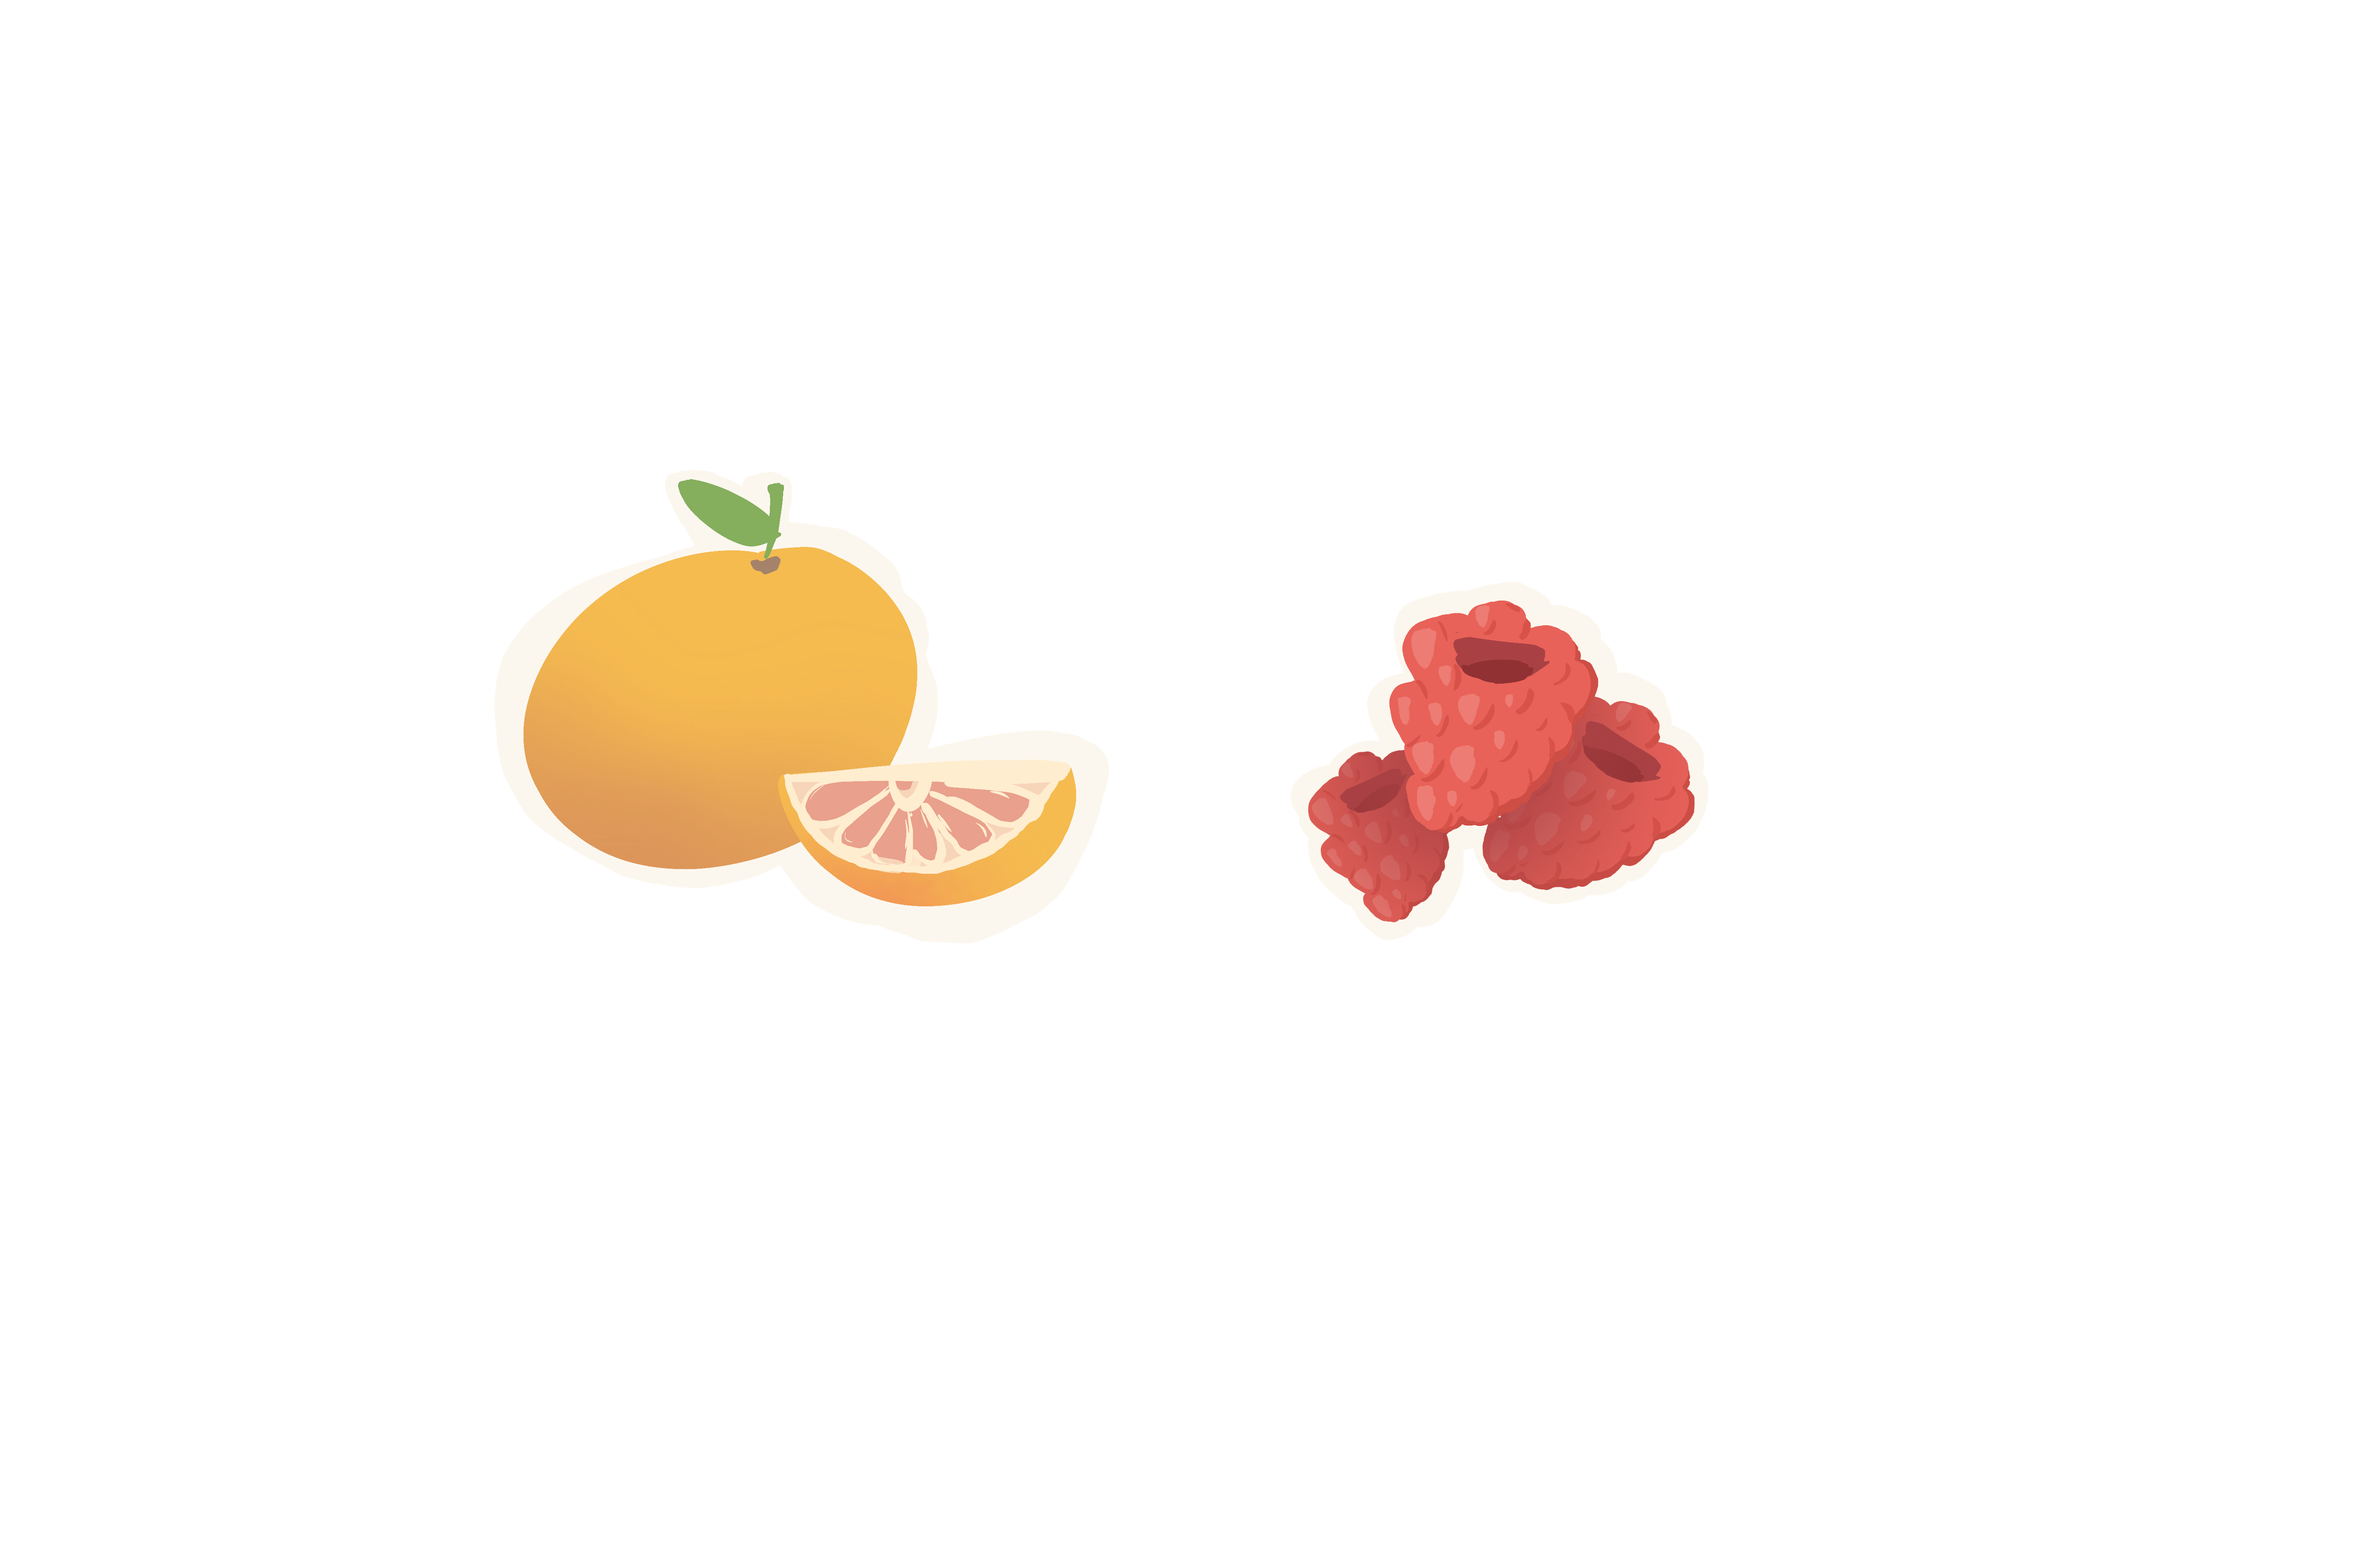
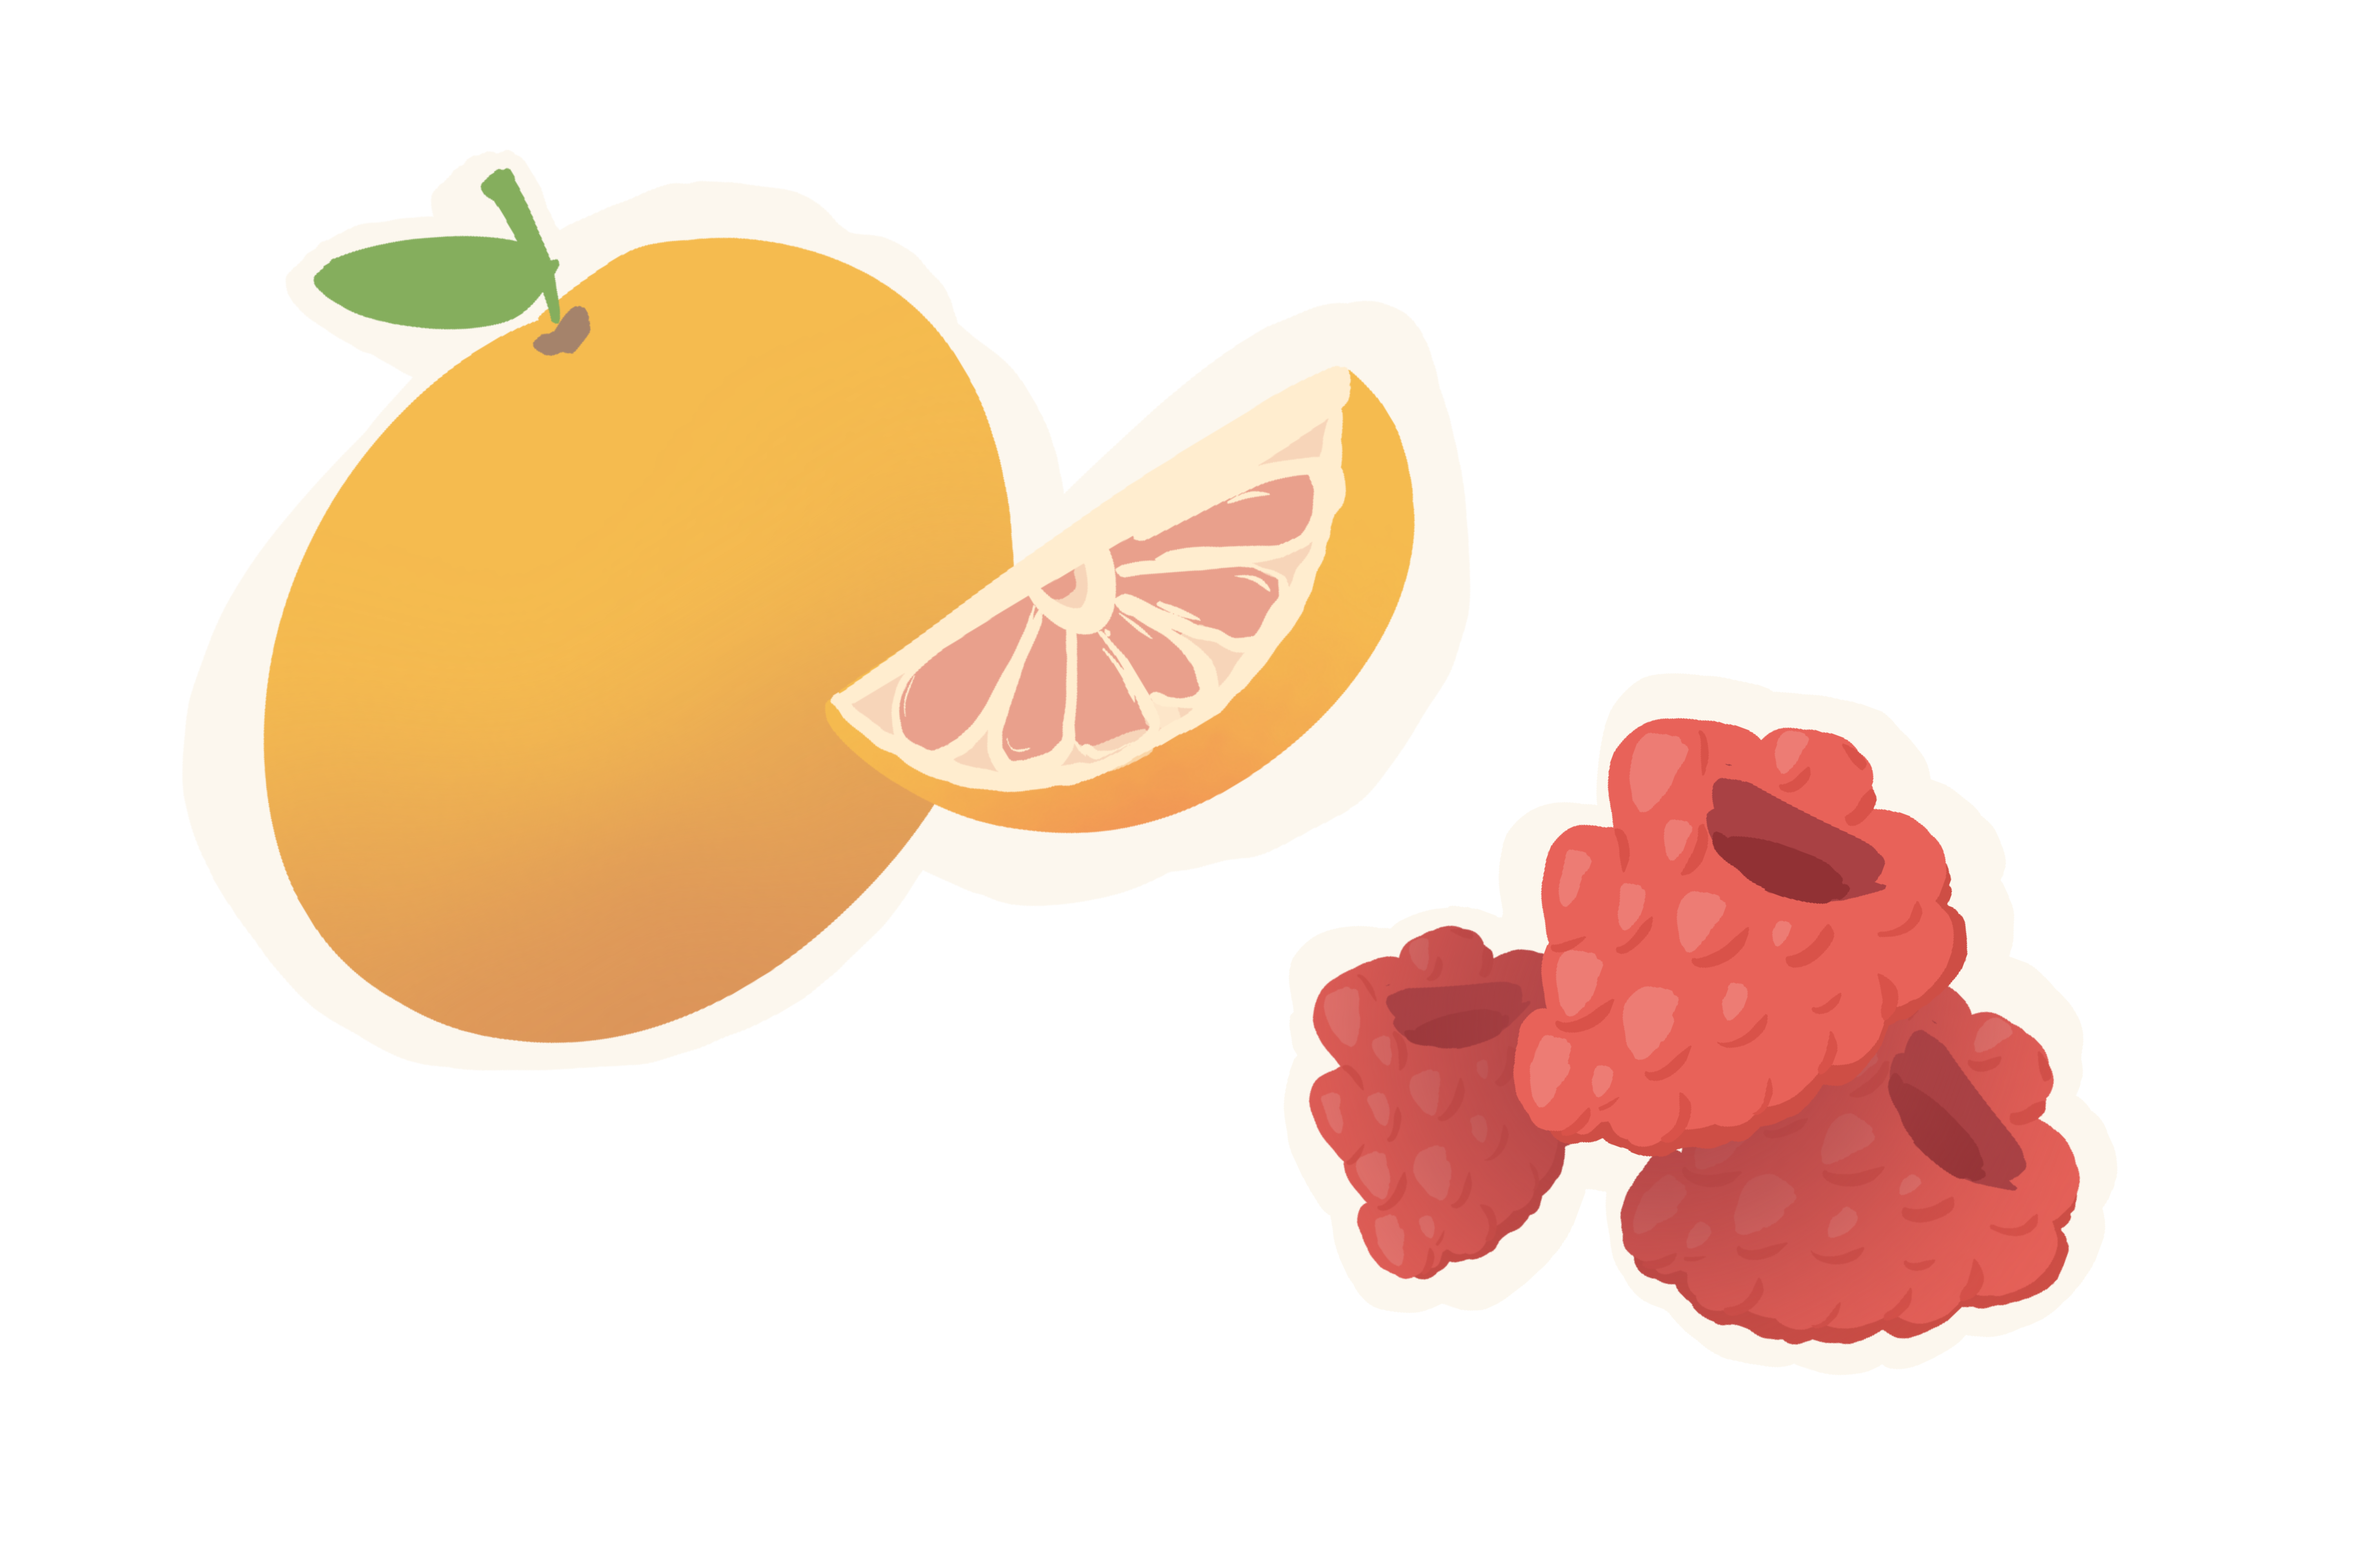
ps3.2
ajout d'images

Changed region(s): [[0.0935, 0.0938, 0.9038, 0.875]]

diff --git a/assets/js/script.js b/assets/js/script.js
@@ -3,7 +3,7 @@ const chapters = {
     titre: "Prologue",
     description:
       "C'est l'été, Jimmy est pauvre et a besoin d'argent. Sa mère lui raconte qu'elle opérait un kiosque de limonade lorsqu'elle était jeune. Jimmy décide de s'y lancer. Jimmy fait du profit dès le premier jour! Son voisin, Rodrigue, est jaloux, il a entendu la conversation que Jimmy a eue avec sa mère et il a décidé de rivaliser avec Jimmy. Jimmy doit avoir le kiosque le plus populaire du coin.",
-    image: "",
+    image: "./assets/images/limonade.png",
     boutons: [{ titre: "Continuer", destination: "jour1" }],
   },
   jour1: {
@@ -30,7 +30,7 @@ const chapters = {
     titre: "J'ai trop d'argent",
     description:
       "Jimmy possède un peu plus d'argent. Il décide de prendre un supplément.",
-    image: "./assets/images/fruits-3.png",
+    image: "./assets/images/supplements.png",
     boutons: [
       { titre: "Sucre", destination: "interlude2" },
       { titre: "Menthe", destination: "interlude2" },
@@ -41,7 +41,7 @@ const chapters = {
     titre: "Jour 3",
     description:
       "Jimmy va au supermarché se procurer des aliments pour sa limonade. Il est inspiré par ce qu'on a raconté aux nouvelles hier. Que devrait-il prendre?",
-    image: "",
+    image: "./assets/images/fruits-3.png",
     boutons: [
       { titre: "Poires cactus", destination: "erreur4" },
       { titre: "Kiwis", destination: "jour3partie2" },
@@ -51,7 +51,7 @@ const chapters = {
   jour3partie2: {
     titre: "Il fait chaud!!",
     description: "Il fait 40˚C!! Les gens ont chaud! Avez-vous des glaçons?",
-    image: "",
+    image: "./assets/images/glacons.png",
     boutons: [
       { titre: "Oui", destination: "fin" },
       { titre: "Non", destination: "erreur5" },
@@ -61,7 +61,7 @@ const chapters = {
     titre: "Bravo!",
     description:
       "Bravo! Le kiosque de limonade à Jimmy a été le plus populaire pendant 3 jours consécutifs. Furieux, Rodrigue rentre chez lui.",
-    image: "",
+    image: "./assets/images/argent.png",
     boutons: [
       { titre: "Sortie", destination: "" },
       { titre: "Rejouer", destination: "debut" },
@@ -71,46 +71,46 @@ const chapters = {
     titre: "Interlude 1",
     description:
       "Jimmy remporte la journée avec le plus de limonade vendue. Il finit sa journée devant la télé. Aux nouvelles, on raconte qu'une évasion de singe a eu lieu.",
-    image: "",
+    image: "./assets/images/tv-singe.png",
     boutons: [{ titre: "Continuer", destination: "jour2" }],
   },
   interlude2: {
     titre: "Interlude 2",
     description:
-      "Jimmy remporte la journée avec le plus de limonade vendue. Il finit sa journée devant la télé. Aux nouvelles, on annonce une canicule et on raconte que le président s'est fait enlever par des extraterrestres.",
-    image: "",
+      "Jimmy remporte la journée avec le plus de limonade vendue. Il finit sa journée devant la télé. Aux nouvelles, on annonce une canicule et on raconte que le président s'est fait enlever par des extraterrestres pendant qu'il mangeait des peaux de fruit poilu.",
+    image: "./assets/images/tv-alien.png",
     boutons: [{ titre: "Continuer", destination: "jour3" }],
   },
   erreur1: {
     titre: "Echec",
     description: "La limonade de Rodrigue est plus populaire, Jimmy abandonne.",
-    image: "",
+    image: "./assets/images/rodrigue.png",
     boutons: [{ titre: "Réssayer", destination: "debut" }],
   },
   erreur2: {
     titre: "Echec",
     description: "La limonade de Rodrigue est plus populaire, Jimmy abandonne.",
-    image: "",
+    image: "./assets/images/rodrigue.png",
     boutons: [{ titre: "Réssayer", destination: "debut" }],
   },
   erreur3: {
-    titre: "",
+    titre: "Echec",
     description:
       "Rodrigue a vendu plus de limonade que toi. Il se moque de toi pour avoir pris des goyaves.",
-    image: "",
+    image: "./assets/images/rodrigue_goyaves.png",
     boutons: [{ titre: "Réssayer", destination: "debut" }],
   },
   erreur4: {
-    titre: "",
+    titre: "Echec",
     description:
       "Les extraterrestres ne sont pas d'accord avec cette décision. Ils capturent Jimmy.",
-    image: "",
+    image: "./assets/images/alien.png",
     boutons: [{ titre: "Réssayer", destination: "debut" }],
   },
   erreur5: {
-    titre: "",
+    titre: "Echec",
     description:
-      "La limonade n'est plus fraiche. Les clients la crachent et demandent à Jimmy de se faire rembourser.",
+      "La limonade n'est plus fraiche et les clients la crachent!! Ils demandent à Jimmy de se faire rembourser.",
     image: "",
     boutons: [{ titre: "Réssayer", destination: "debut" }],
   },

diff --git a/index.html b/index.html
@@ -20,8 +20,8 @@
         Lorem ut enim exercitation enim. Aliquip excepteur eiusmod in velit
         adipisicing aute laboris ad sint eu.
       </div>
-      <div class="image" id="chapterImg">
-        <img src="./assets/images/limonades.jpg" />
+      <div class="image">
+        <img src="./assets/images/limonades.jpg" id="chapterImg"/>
       </div>
       <div class="barre-options" id="chapterButtons">
         <button>Bouton 1</button>

diff --git a/assets/css/styles.css b/assets/css/styles.css
@@ -24,6 +24,7 @@ body {
   background-image: url(/assets/images/polka_dots.svg);
   stroke: #6c816b;
   background-repeat: no-repeat;
+  background-size: cover;
 }
 
 #jeu {
